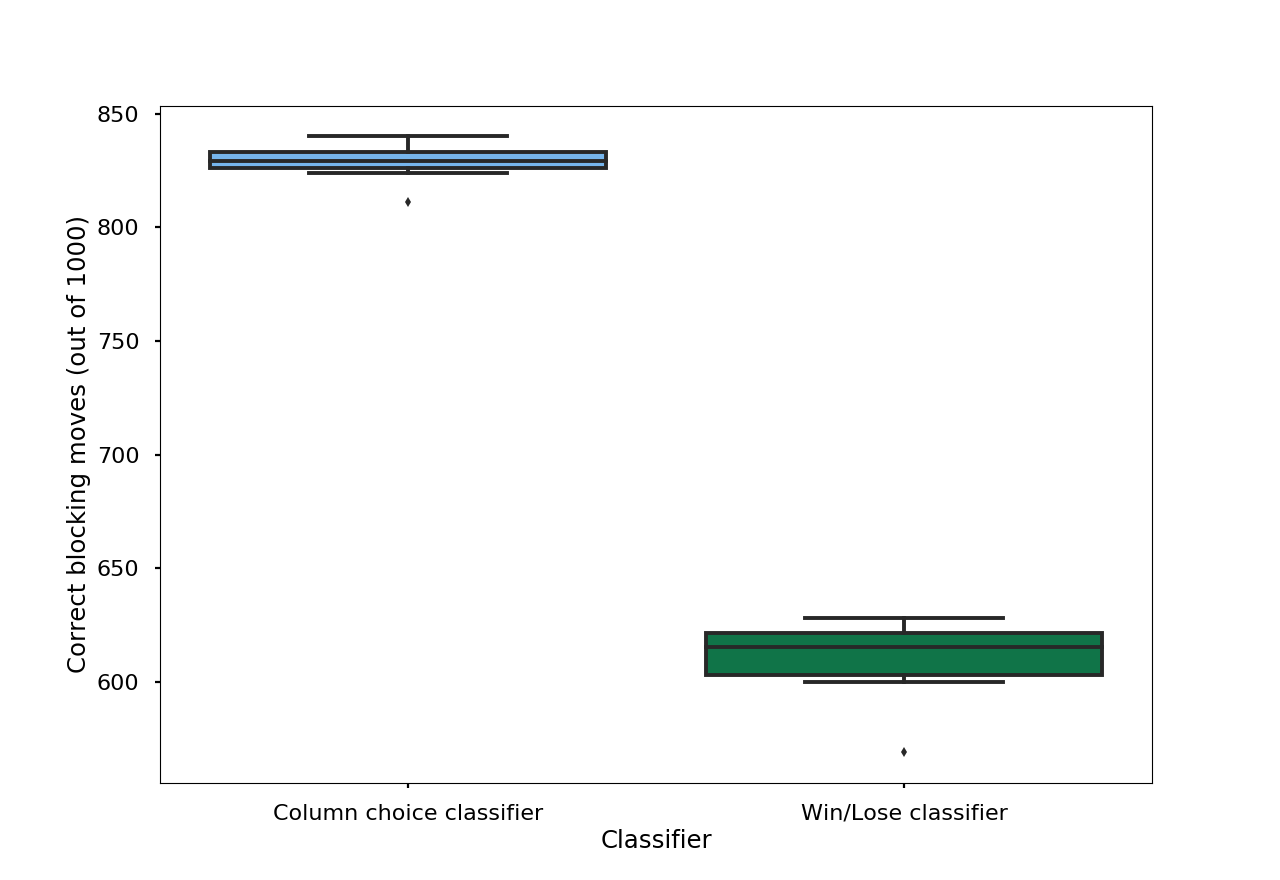
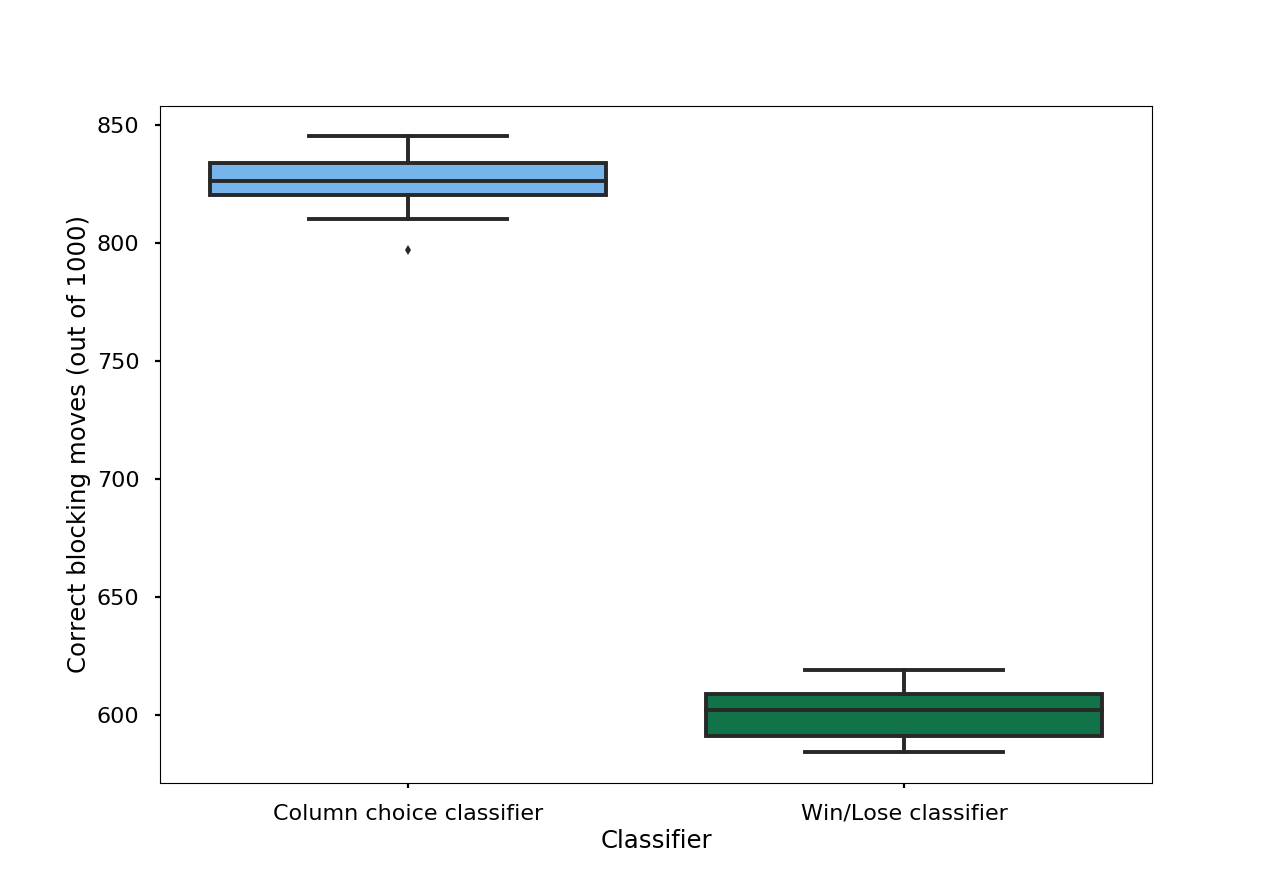
images

diff --git a/application/statistic_visualisation.py b/application/statistic_visualisation.py
@@ -16,7 +16,7 @@ from matplotlib import pyplot as plt
 import matplotlib.style as style
 
 if __name__ == '__main__':
-  with open(f'../statistics/dataframes/analysis_10.pickle', 'rb') as dataframe_file:
+  with open(f'../statistics/dataframes/analysis_20.pickle', 'rb') as dataframe_file:
     correctness_per_player_data = pickle.load(dataframe_file)
   correctness_per_player_data = correctness_per_player_data.replace('model_jort', 'Win/Lose classifier')
   correctness_per_player_data = correctness_per_player_data.replace('model_vince', 'Column choice classifier')
@@ -26,7 +26,7 @@ if __name__ == '__main__':
   # size (resolution)
   style.use('seaborn-poster')
 
-  plot = sns.barplot(x="Player", y="Winning moves", palette=["#63b7ff"] * 10 + ["#00844a"] * 10, data=pd.concat([correctness_per_player_data[:10], correctness_per_player_data[10:]]))
+  plot = sns.barplot(x="Player", y="Winning moves", palette=["#63b7ff"] * 10 + ["#00844a"] * 10, data=pd.concat([correctness_per_player_data[:10], correctness_per_player_data[20:30]]))
   plot.set(xlabel="Classifier", ylabel="Correct winning moves (out of 1000) per player")
   plot.figure.savefig(f"../statistics/images/analysis-winning-moves-per-player.png")
   plot.figure.clf()
@@ -35,25 +35,25 @@ if __name__ == '__main__':
   plot.set(xlabel="Classifier", ylabel="Correct winning moves (out of 1000)")
   plot.figure.savefig(f"../statistics/images/analysis-winning-moves.png")
   plot.figure.clf()
-  hypothesis_testing(list(correctness_per_player_data["Winning moves"][:10]), list(correctness_per_player_data["Winning moves"][10:]))
+  hypothesis_testing(list(correctness_per_player_data["Winning moves"][:20]), list(correctness_per_player_data["Winning moves"][20:]))
 
   plot = sns.boxplot(x="Type", y="Blocking moves", data=correctness_per_player_data)
   plot.set(xlabel="Classifier", ylabel="Correct blocking moves (out of 1000)")
   plot.figure.savefig(f"../statistics/images/analysis-blocking-moves.png")
   plot.figure.clf()
-  hypothesis_testing(list(correctness_per_player_data["Blocking moves"][:10]), list(correctness_per_player_data["Blocking moves"][10:]))
+  hypothesis_testing(list(correctness_per_player_data["Blocking moves"][:20]), list(correctness_per_player_data["Blocking moves"][20:]))
 
   plot = sns.boxplot(x="Type", y="Won against random", data=correctness_per_player_data)
   plot.set(xlabel="Classifier", ylabel="Won against random (out of 100)")
   plot.figure.savefig(f"../statistics/images/analysis-won-against-random.png")
   plot.figure.clf()
-  hypothesis_testing(list(correctness_per_player_data["Won against random"][:10]), list(correctness_per_player_data["Won against random"][10:]))
+  hypothesis_testing(list(correctness_per_player_data["Won against random"][:20]), list(correctness_per_player_data["Won against random"][20:]))
 
   plot = sns.boxplot(x="Type", y="Won against opposite", data=correctness_per_player_data)
   plot.set(xlabel="Classifier", ylabel="Won against opposite (out of 100)")
   plot.figure.savefig(f"../statistics/images/analysis-won-against-opposite.png")
   plot.figure.clf()
-  hypothesis_testing(list(correctness_per_player_data["Won against opposite"][:10]), list(correctness_per_player_data["Won against opposite"][10:]))
+  hypothesis_testing(list(correctness_per_player_data["Won against opposite"][:20]), list(correctness_per_player_data["Won against opposite"][20:]))
 
   won_against_random = list(correctness_per_player_data['Won against random'])
   plot = sns.boxplot(x="Type", y="Average moves played random", data=correctness_per_player_data)
